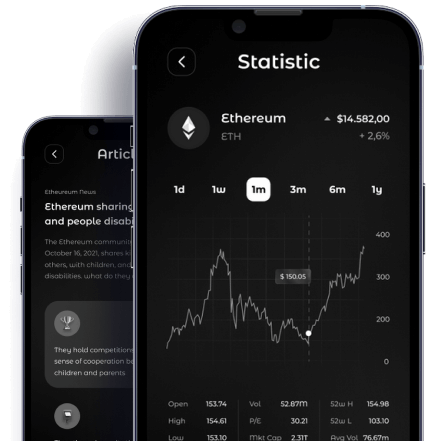
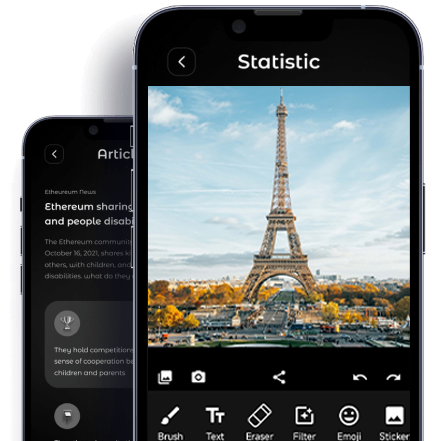
Unfinished Commit #1

diff --git a/src/components/forms/LoginForm.tsx b/src/components/forms/LoginForm.tsx
@@ -1,11 +1,11 @@
-import { useState } from "react";
+// import { useState } from "react";
 import { toast } from 'react-toastify';
 import * as yup from "yup";
 import { useForm } from "react-hook-form";
 import { yupResolver } from '@hookform/resolvers/yup';
-import { Link } from "react-router-dom";
-import CloseEye from "../../svg/CloseEye";
-import OpenEye from "../../svg/OpenEye";
+// import { Link } from "react-router-dom";
+// import CloseEye from "../../svg/CloseEye";
+// import OpenEye from "../../svg/OpenEye";
 
 interface FormData {
    email: string;
@@ -21,22 +21,31 @@ const LoginForm = () => {
       })
       .required();
 
-   const { register, handleSubmit, reset, formState: { errors }, } = useForm<FormData>({ resolver: yupResolver(schema), });
+   // const { register, handleSubmit, reset, formState: { errors }, } = useForm<FormData>({ resolver: yupResolver(schema), });
+   const { handleSubmit, reset, } = useForm<FormData>({ resolver: yupResolver(schema), });
    const onSubmit = () => {
       const notify = () => toast('Login successfully', { position: 'top-center' });
       notify();
       reset();
    };
 
-   const [isPasswordVisible, setPasswordVisibility] = useState(false);
+   // const [isPasswordVisible, setPasswordVisibility] = useState(false);
 
-   const togglePasswordVisibility = () => {
-      setPasswordVisibility(!isPasswordVisible);
-   };
+   // const togglePasswordVisibility = () => {
+   //    setPasswordVisibility(!isPasswordVisible);
+   // };
 
    return (
       <form onSubmit={handleSubmit(onSubmit)}>
-         <div className="eg-login__input-wrapper">
+         <div className="eg-login__input-wrapper" style={{ marginBottom: '50px' }}>
+            <div className="eg-login__input-box">
+               <div className="eg-login__input">
+                  <p>To continue, please connect your Web3 wallet, such as <a href="https://metamask.io/" target="_blank" rel="noopener noreferrer">MetaMask</a> or <a href="https://walletconnect.org/" target="_blank" rel="noopener noreferrer">WalletConnect</a>. This allows our website to securely interact with your wallet.</p>
+                  <p>By clicking &quot;Accept and Continue&quot;, you agree to our <a href="#" data-toggle="modal" data-target="#termsModal">terms and conditions</a> and <a href="#" data-toggle="modal" data-target="#privacyModal">privacy policy</a>. You will be prompted to connect your wallet via an external link. Ensure you're using a trusted and secure wallet service.</p>
+               </div>
+            </div>
+         </div>
+         {/* <div className="eg-login__input-wrapper">
             <div className="eg-login__input-box">
                <div className="eg-login__input">
                   <label htmlFor="email">Your Email</label>
@@ -60,8 +69,8 @@ const LoginForm = () => {
                   <p className="form_error">{errors.password?.message}</p>
                </div>
             </div>
-         </div>
-         <div className="eg-login__suggetions d-flex align-items-center justify-content-between mb-20">
+         </div> */}
+         {/* <div className="eg-login__suggetions d-flex align-items-center justify-content-between mb-20">
             <div className="eg-login__remeber">
                <input id="remeber" type="checkbox" />
                <label htmlFor="remeber">Remember me</label>
@@ -69,9 +78,9 @@ const LoginForm = () => {
             <div className="eg-login__forgot">
                <Link to="/forgot">Forgot Password?</Link>
             </div>
-         </div>
+         </div> */}
          <div className="eg-login__bottom">
-            <button type="submit" className="btn w-100">Login</button>
+            <button type="submit" className="btn w-100">Connect Your Wallet</button>
          </div>
       </form>
    )

diff --git a/src/components/forms/RegisterForm.tsx b/src/components/forms/RegisterForm.tsx
@@ -3,7 +3,7 @@ import { toast } from 'react-toastify';
 import * as yup from "yup";
 import { useForm } from "react-hook-form";
 import { yupResolver } from '@hookform/resolvers/yup';
-import { Link } from "react-router-dom";
+// import { Link } from "react-router-dom";
 import CloseEye from "../../svg/CloseEye";
 import OpenEye from "../../svg/OpenEye";
 
@@ -38,24 +38,24 @@ const RegisterForm = () => {
 
    return (
       <form onSubmit={handleSubmit(onSubmit)}>
-         <div className="eg-login__input-wrapper">
+         <div className="eg-login__input-wrapper" style={{ marginBottom: '50px' }}>
             <div className="eg-login__input-box">
                <div className="eg-login__input">
-                  <label htmlFor="name">Your Name</label>
-                  <input id="name" {...register("name")} type="text" placeholder="Nathaniel Lewis" />
+                  <label htmlFor="name">Your Address</label>
+                  <input id="name" {...register("name")} type="text" placeholder="Address will be shown here" />
                   <p className="form_error">{errors.name?.message}</p>
                </div>
             </div>
             <div className="eg-login__input-box">
                <div className="eg-login__input">
-                  <label htmlFor="email">Your Email</label>
-                  <input id="email" {...register("email")} type="email" placeholder="xeco@mail.com" />
+                  <label htmlFor="email">Your Activation Code</label>
+                  <input id="email" {...register("email")} type="email" placeholder="Activation code will be shown here" />
                   <p className="form_error">{errors.email?.message}</p>
                </div>
             </div>
             <div className="eg-login__input-box">
                <div className="eg-login__input">
-                  <label htmlFor="eg-password__input">Password</label>
+                  <label htmlFor="eg-password__input">Your Promotion Code</label>
                   <div className="eg-password-show">
                      <input id="eg-password__input" {...register("password")} type={isPasswordVisible ? "text" : "password"} placeholder="Min. 6 characters" />
                      <div className="eg-login__input-eye" id="eg-password__show-toggle" onClick={togglePasswordVisibility} >
@@ -70,7 +70,7 @@ const RegisterForm = () => {
                </div>
             </div>
          </div>
-         <div className="eg-login__suggetions d-flex align-items-center justify-content-between mb-20">
+         {/* <div className="eg-login__suggetions d-flex align-items-center justify-content-between mb-20">
             <div className="eg-login__remeber">
                <input id="remeber" type="checkbox" />
                <label htmlFor="remeber">Remember me</label>
@@ -78,9 +78,9 @@ const RegisterForm = () => {
             <div className="eg-login__forgot">
                <Link to="/forgot">Forgot Password?</Link>
             </div>
-         </div>
+         </div> */}
          <div className="eg-login__bottom">
-           <button type="submit" className="btn w-100">Register</button>
+           <button type="submit" className="btn w-100">Check Your Eligibility</button>
          </div>
       </form>
    )

diff --git a/src/components/home/ChartArea.tsx b/src/components/home/ChartArea.tsx
@@ -2,9 +2,9 @@ import { useState } from 'react';
 import { Doughnut } from 'react-chartjs-2';
 import 'chart.js/auto';
 
-const tab_title: string[] = ["Funding Allocation", "Token Distribution",];
+const tab_title: string[] = ["Funding Allocation", "Token Distribution"];
 const chart_List_1: string[] = ["Contingency: 70%", "Business Development: 20%", "Investor: 30%", "Poland: 15%", "Legal & Regulation: 20%", "Czech Republic: 50%"]
-const chart_List_2: string[] = ["Czech Republic: 50%", "Poland: 15%", "Legal & Regulation: 20%", "Contingency: 70%", "Business Development: 20%", "Investor: 30%"]
+const chart_List_2: string[] = ["Launchpool: 32%", "Foundation: 25%", "Private Offering: 16%", "Financiers: 12%", "Team: 8%", "Initial Airdrop: 7%"]
 
 const ChartArea = () => {
 
@@ -19,14 +19,24 @@ const ChartArea = () => {
 
    const chartData = [
       [70, 20, 30, 15, 20, 50], // Funding Allocation percentages
-      [50, 15, 20, 70, 20, 30]  // Token Distribution percentages
+      [32, 25, 16, 12, 8, 7]  // Token Distribution percentages
+   ];
+
+   const labelData = [
+      ["Contingency", "Business Development", "Investor", "Poland", "Legal & Regulation", "Czech Republic"], // Funding Allocation labels
+      ["Launchpool", "Foundation", "Private Offering", "Financiers", "Team", "Initial Airdrop"]  // Token Distribution labels
+   ];
+
+   const datasetLabel = [
+      "Number of Tokens",
+      "Percentage"
    ];
 
    const data = {
-      // labels: ["Contingency", "Business Development", "Investor", "Poland", "Legal & Regulation", "Czech Republic"],
+      labels: labelData[activeTab],
       datasets: [
          {
-            label: 'Founding Allocation',
+            label: datasetLabel[activeTab],
             data: chartData[activeTab],
             backgroundColor: ["#44A08D", "#136F84", "#0B446D", "#033356", "#012641", "#191F28"]
          }
@@ -76,12 +86,13 @@ const ChartArea = () => {
                   </div>
                   <div className="col-lg-6">
                      <div className="right-side-content">
-                        <img src="/assets/img/images/chart_img.png" alt="" />
-                        <p>Ethereum is a decentralized, open-source <br /> blockchain with smart contract</p>
+                        <img src="https://i.imgur.com/xXTGcVC.gif" alt="" />
+                        <p>Multi-function available for our app <br /> Steps to use the app:</p>
                         <ul className="list-wrap">
-                           <li><span>1</span>Symbol: CIC</li>
-                           <li><span>2</span>Initial Value : 1 ETH = 3177.38 CIC</li>
-                           <li><span>3</span>Type : ERC20</li>
+                           <li><span>1</span>Choose image template</li>
+                           <li><span>2</span>Click the contents to be modified</li>
+                           <li><span>3</span>Input new contents in the input area</li>
+                           <li><span>4</span>Save or share your image</li>
                         </ul>
                      </div>
                   </div>

diff --git a/src/components/common/LoginArea.tsx b/src/components/common/LoginArea.tsx
@@ -1,4 +1,4 @@
-import { Link } from "react-router-dom";
+// import { Link } from "react-router-dom";
 import RegisterForm from "../forms/RegisterForm";
 import LoginForm from "../forms/LoginForm";
 
@@ -13,16 +13,16 @@ const LogingArea = ({ style }: any) => {
                   <div className="eg-login__wrapper">
                      {style ? (
                         <div className="eg-login__top text-center mb-30">
-                           <h3 className="eg-login__title">Sing Up Xeco.</h3>
-                           <p>Already have an account? <span><Link to="/login">Sing In</Link></span></p>
+                           <h3 className="eg-login__title">Your Account</h3>
+                           <p>Press the button below to proceed checking</p>
                         </div>) : (
                         <div className="eg-login__top text-center mb-30">
-                           <h3 className="eg-login__title">Login to Xeco.</h3>
-                           <p>Don’t have an account? <span><Link to="/register">Create a free account</Link></span></p>
+                           <h3 className="eg-login__title">Connect Your Wallet</h3>
+                           <p>Connect your wallet to claim your activation code</p>
                         </div>)}
                      <div className="eg-login__option">
                         {style ? <RegisterForm /> : <LoginForm />}
-                        <div className="eg-login__mail text-center mt-20 mb-20">
+                        {/* <div className="eg-login__mail text-center mt-20 mb-20">
                            <p>or</p>
                         </div>
                         <div className="eg-login__social mb-10 ">
@@ -32,7 +32,7 @@ const LogingArea = ({ style }: any) => {
                            <div className="eg-login__option-item">
                               <Link to="#">  <img src="/assets/img/icons/facebook.svg" alt="" /> Sign in with facebook </Link>
                            </div>
-                        </div>
+                        </div> */}
                      </div>
                   </div>
                </div>

diff --git a/src/layout/footer/Footer.tsx b/src/layout/footer/Footer.tsx
@@ -14,22 +14,16 @@ interface DataType {
 const footer_data: DataType[] = [
    {
       id: 1,
-      class_name: "col-xl-3 col-lg-3 col-md-4 col-sm-6",
-      title: "Usefull Links",
-      footer_link: [{ link: "/contact", link_title: "Contact us" }, { link: "/contact", link_title: "How it Works" }, { link: "/contact", link_title: "Create" }, { link: "/contact", link_title: "Explore" }, { link: "/contact", link_title: "Terms & Services" },]
+      class_name: "col-xl-4 col-lg-4 col-md-6 col-sm-8",
+      title: "Related Links",
+      footer_link: [{ link: "/", link_title: "Home" }, { link: "/#feature", link_title: "Feature" }, { link: "/#chart", link_title: "Chart" }, { link: "/#roadMap", link_title: "Roadmap" }, { link: "/terms-and-services", link_title: "Terms & Services" },]
    },
    {
       id: 2,
-      class_name: "col-xl-3 col-lg-2 col-md-4 col-sm-6",
+      class_name: "col-xl-4 col-lg-4 col-md-6 col-sm-8",
       title: "SOLUTIONS",
       footer_link: [{ link: "/contact", link_title: "Token Suite" }, { link: "/contact", link_title: "Ecosystem" }, { link: "/contact", link_title: "Investment" }, { link: "/contact", link_title: "Portal" }, { link: "/contact", link_title: "Tokenization" },]
-   },
-   {
-      id: 3,
-      class_name: "col-xl-3 col-lg-3 col-md-4 col-sm-4",
-      title: "Usefull Links",
-      footer_link: [{ link: "/contact", link_title: "Help Center" }, { link: "/contact", link_title: "Partners" }, { link: "/contact", link_title: "Suggestions" }, { link: "/blog", link_title: "Blog" }, { link: "/contact", link_title: "Newsletters" },]
-   },
+   }
 ]
 
 const Footer = () => {

diff --git a/src/components/blogs/blog-details/BlogDetailsArea.tsx b/src/components/blogs/blog-details/BlogDetailsArea.tsx
@@ -27,7 +27,7 @@ const content_data: ContentData = {
    desc_7: (<>We explore a diverse range of projects that have thrived after launching their ICOs, disrupting traditional industries and paving the way for revolutionary solutions. From decentralized applications (DApps) that have reshaped digital ecosystems to blockchain platforms revolutionizing supply chain management, these success stories demonstrate the power of ICOs to propel ideas into reality.</>),
    desc_8: (<>Through in-depth case studies and interviews with project leaders, we offer insights into the challenges they faced, the strategies they employed, and the lessons they learned along the way. Whether you&apos;re an investor seeking inspiration or an entrepreneur entrepreneur considering an ICO, these stories.</>),
    desc_9: (<>The Founder and Creative Director of XECO, a digital creative studio in USA, has over 15 years of experience as an award-winning Creative Director/Art for clients.</>),
-   social_icon: ["fab fa-facebook-f", "fab fa-linkedin-in", "fab fa-twitter", "fab fa-instagram",]
+   social_icon: ["fas fa-globe", "fab fa-linkedin-in", "fab fa-twitter", "fab fa-telegram",]
 }
 const { title_1, desc_1, desc_2, desc_3, desc_4, desc_5, social_icon, desc_6, desc_7, desc_8, desc_9 } = content_data;
 

diff --git a/src/layout/headers/Menu/HeaderOffcanvas.tsx b/src/layout/headers/Menu/HeaderOffcanvas.tsx
@@ -25,14 +25,14 @@ const HeaderOffcanvas = ({ offCanvas, setOffCanvas }: any) => {
                   <div className="contact-list mb-30">
                      <h4>Email Address</h4>
                      <p>info@photoeditor.com</p>
-                     <p>example.mail@photoeditor.com</p>
+                     <p>support@photoeditor.com</p>
                   </div>
                </div>
                <div className="social-icon-right mt-30">
-                  <Link to="#"><i className="fab fa-facebook-f"></i></Link>
+                  <Link to="#"><i className="fas fa-globe"></i></Link>
                   <Link to="#"><i className="fab fa-twitter"></i></Link>
                   <Link to="#"><i className="fab fa-google-plus-g"></i></Link>
-                  <Link to="#"><i className="fab fa-instagram"></i></Link>
+                  <Link to="#"><i className="fab fa-telegram"></i></Link>
                </div>
             </div>
             <div onClick={() => setOffCanvas(false)} className={`offcanvas-overly ${offCanvas ? "active" : ""}`}></div>

diff --git a/src/layout/headers/Menu/Sidebar.tsx b/src/layout/headers/Menu/Sidebar.tsx
@@ -16,10 +16,9 @@ const Sidebar = ({ isActive, setIsActive }: any) => {
                     </div>
                     <div className="social-links">
                         <ul className="clearfix list-wrap">
-                            <li><a href="#"><i className="fab fa-facebook-f"></i></a></li>
+                            <li><a href="#"><i className="fas fa-globe"></i></a></li>
                             <li><a href="#"><i className="fab fa-twitter"></i></a></li>
-                            <li><a href="#"><i className="fab fa-instagram"></i></a></li>
-                            <li><a href="#"><i className="fab fa-linkedin-in"></i></a></li>
+                            <li><a href="#"><i className="fab fa-telegram"></i></a></li>
                             <li><a href="#"><i className="fab fa-youtube"></i></a></li>
                         </ul>
                     </div>

diff --git a/src/components/blogs/blog-common/BlogSidebar.tsx b/src/components/blogs/blog-common/BlogSidebar.tsx
@@ -23,10 +23,10 @@ const BlogSidebar = () => {
                <h4 className="widget-title">Follow Us</h4>
                <div className="sidebar-follow-wrap">
                   <ul className="list-wrap">
-                     <li><Link to="#"><i className="fab fa-facebook-f"></i></Link></li>
+                     <li><Link to="#"><i className="fas fa-globe"></i></Link></li>
                      <li><Link to="#"><i className="fab fa-twitter"></i></Link></li>
                      <li><Link to="#"><i className="fab fa-linkedin-in"></i></Link></li>
-                     <li><Link to="#"><i className="fab fa-instagram"></i></Link></li>
+                     <li><Link to="#"><i className="fab fa-telegram"></i></Link></li>
                   </ul>
                   <Link to="/contact" className="btn">Get In Touch</Link>
                </div>

diff --git a/src/layout/headers/Header.tsx b/src/layout/headers/Header.tsx
@@ -27,7 +27,7 @@ const Header = () => {
                                         </div>
                                         <div className="header-action">
                                             <ul className="list-wrap">
-                                                <li className="header-login"><Link to="/login">Login<i className="fas fa-user"></i></Link></li>
+                                                <li className="header-login"><Link to="/login">Connect<i className="fas fa-wallet"></i></Link></li>
                                                 <li className="offcanvas-menu"><a onClick={() => setOffCanvas(true)} style={{ cursor: "pointer" }} className="menu-tigger"><i className="fas fa-bars"></i></a></li>
                                             </ul>
                                         </div>

diff --git a/src/components/home/Team.tsx b/src/components/home/Team.tsx
@@ -70,7 +70,7 @@ const Team = () => {
             <div className="row g-0">
                <div className="col-12">
                   <div className="section-title text-center mb-50">
-                     <h2 className="title">Meet Our Extrodinary Developers</h2>
+                     <h2 className="title">Meet Our Extraordinary Developers</h2>
                   </div>
                </div>
             </div>
@@ -92,7 +92,7 @@ const Team = () => {
                   ))}
                </Slider>
                <div className="read-more-btn text-center mt-70">
-                  <Link to="/contact" className="btn">All Team Member</Link>
+                  <Link to="/contact" className="btn">Contact Us</Link>
                </div>
             </div>
          </div>

diff --git a/src/components/home/FeatureTwo.tsx b/src/components/home/FeatureTwo.tsx
@@ -7,17 +7,17 @@ interface DataType {
 const feature_data: DataType[] = [
    {
       id: 1,
-      title: "Lifetime free and transaction",
+      title: "Lifetime Free Updates",
       img: "/assets/img/images/features_two_img01.png"
    },
    {
       id: 2,
-      title: "Security & Control over money",
+      title: "Security & Control over Your Edits",
       img: "/assets/img/images/features_two_img02.png"
    },
    {
       id: 3,
-      title: "Mobile Payment Make Easy",
+      title: "Easy Mobile Photo Editing",
       img: "/assets/img/images/features_two_img03.png"
    }
 ]
